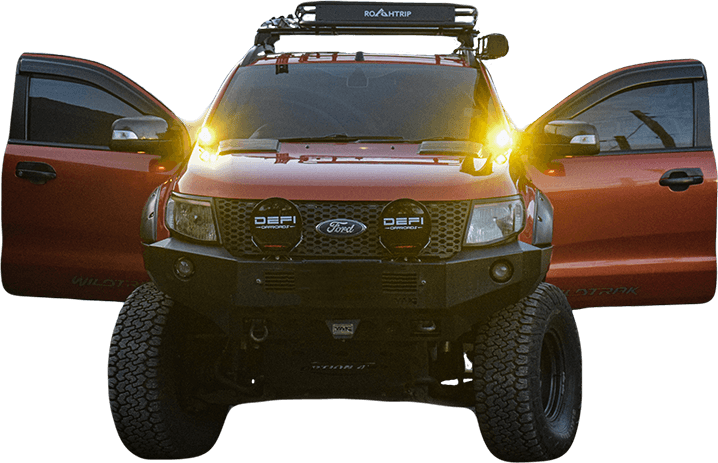
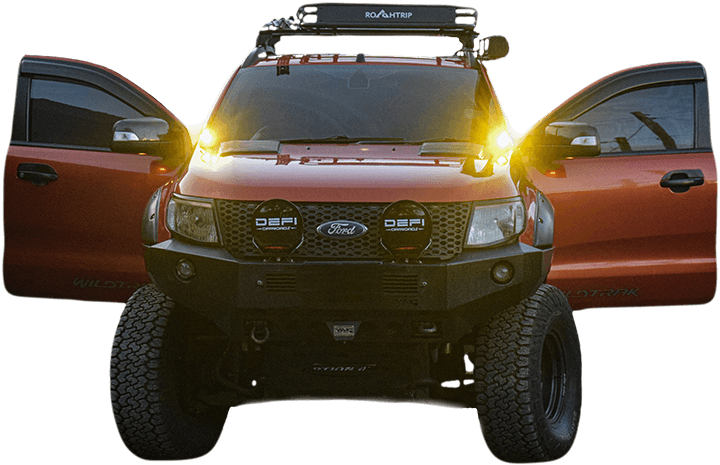
md breakpoint

diff --git a/src/app/page.js b/src/app/page.js
@@ -2,7 +2,7 @@
 import { useEffect, useState, useContext } from "react";
 import Image from "next/image";
 import { useRouter } from "next/navigation";
-import heroImage from "@/assets/images/hero_image.png";
+import heroImage from "@/assets/images/hero_image_lighter.png";
 import Navbar from "@/components/navbar";
 import Footer from "@/components/footer";
 import { CardLarge } from "@/components/cards";
@@ -29,7 +29,7 @@ export default function LandingPage() {
         <main className="flex flex-col flex-1 w-full mb-12">
           {/* HERO */}
           <div className=" bg-backg-dark-surface dark:bg-backg-dark-raised p-6 sm:p-12 md:p-20">
-            <div className="grid grid-cols-1 sm:grid-cols-2 lg:max-w-screen-lg m-auto">
+            <div className="grid grid-cols-1 md:grid-cols-2 lg:max-w-screen-lg m-auto">
               <div className="m-auto flex flex-col items-center">
                 <h1 className="text-font-dark-focus mb-4 text-center">
                   Let&apos;s go offroad
@@ -52,12 +52,12 @@ export default function LandingPage() {
                   </div>
                 </div>
               </div>
-              <div className="hidden sm:block">
+              <div className="hidden md:block">
                 <Image
                   src={heroImage}
                   priority={true}
-                  width={718}
-                  height={463}
+                  width={720}
+                  height={465}
                   alt="hero-image"
                 />
               </div>

diff --git a/src/components/navbar.js b/src/components/navbar.js
@@ -14,7 +14,7 @@ export default function Navbar() {
       <div className="mx-auto items-center justify-center flex h-16 px-2 sm:px-6 lg:px-8 lg:max-w-screen-lg">
         <div className="flex flex-1 items-center justify-center">
           {/* collapsed menu items */}
-          <div className="sm:hidden flex flex-row flex-1 justify-between items-center">
+          <div className="md:hidden flex flex-row flex-1 justify-between items-center">
             <SVGlogo className="h-8 w-auto mx-8 py-2 text-backg-dark dark:text-backg hover:scale-110 hover:text-primary dark:hover:text-primary" />
             <button onClick={() => setHamIsOpen(true)} className="flex p-3">
               <SVGhambuger className="w-6 h-6" />
@@ -60,7 +60,7 @@ export default function Navbar() {
           </div>
           {/* expanded menu items */}
           {!pathname.includes("/admin") && (
-            <div className="hidden sm:flex sm:flex-row">
+            <div className="hidden md:flex md:flex-row">
               <div className="space-x-4 md:space-x-8 flex mx-6">
                 {[
                   { link: "cars" },
@@ -97,7 +97,7 @@ export default function Navbar() {
           )}
           {/* admin menu items */}
           {pathname.includes("/admin") && (
-            <div className="hidden sm:flex sm:flex-row">
+            <div className="hidden md:flex md:flex-row">
               <div className="space-x-4 md:space-x-8 flex mx-6">
                 <Link
                   href={"/admin/inventory"}
